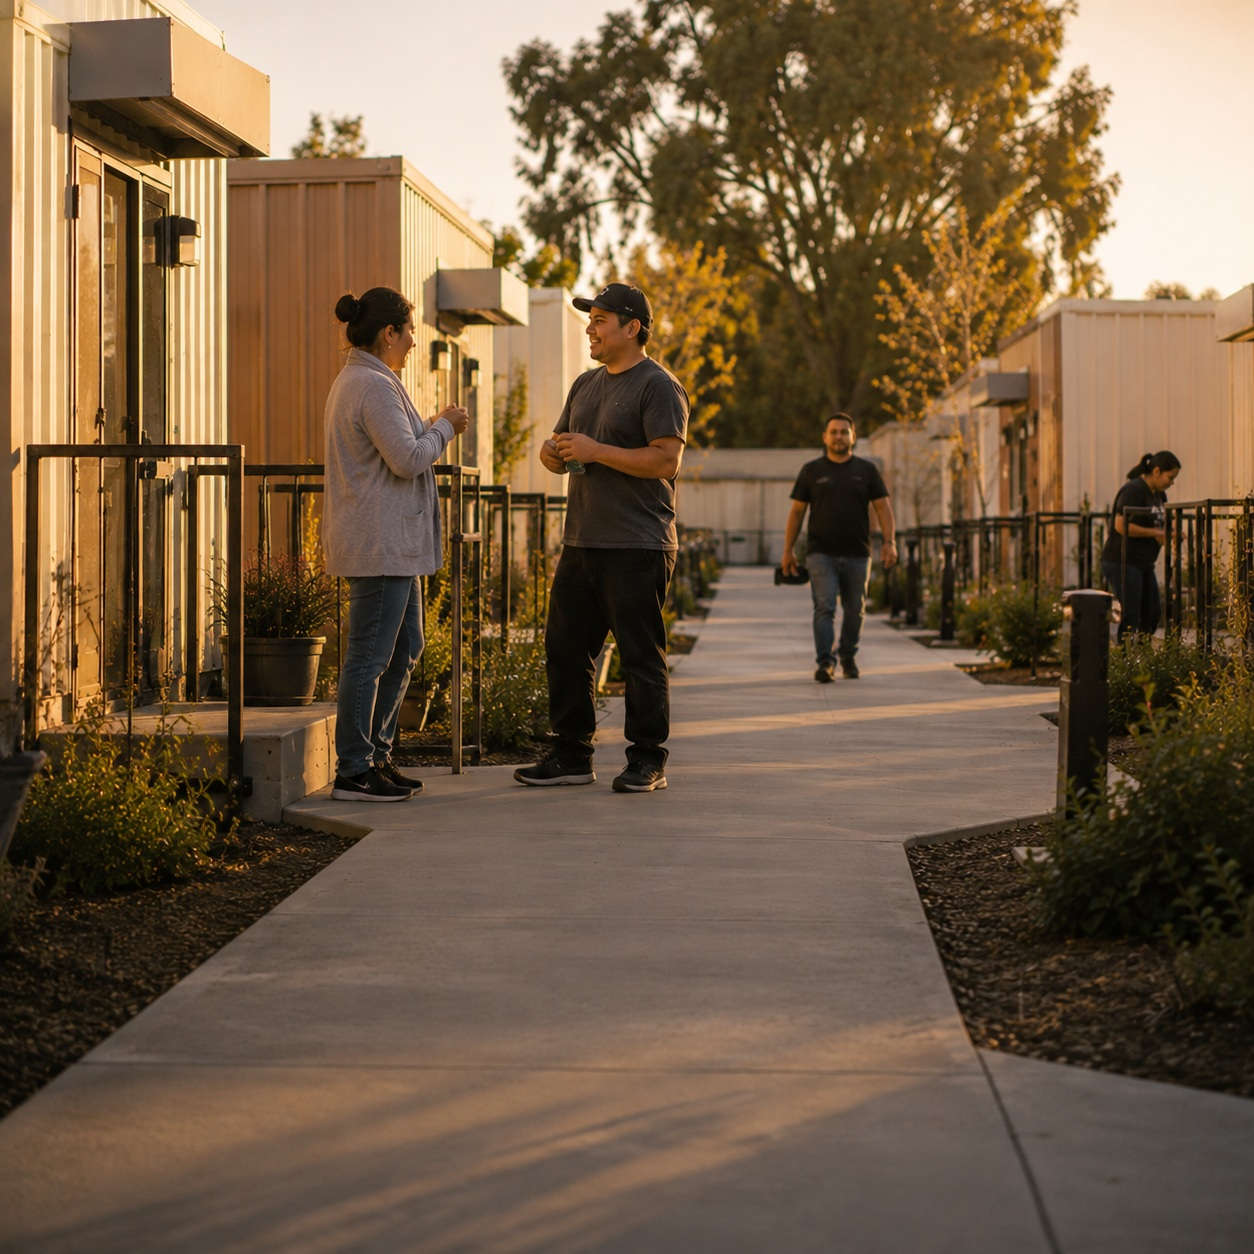
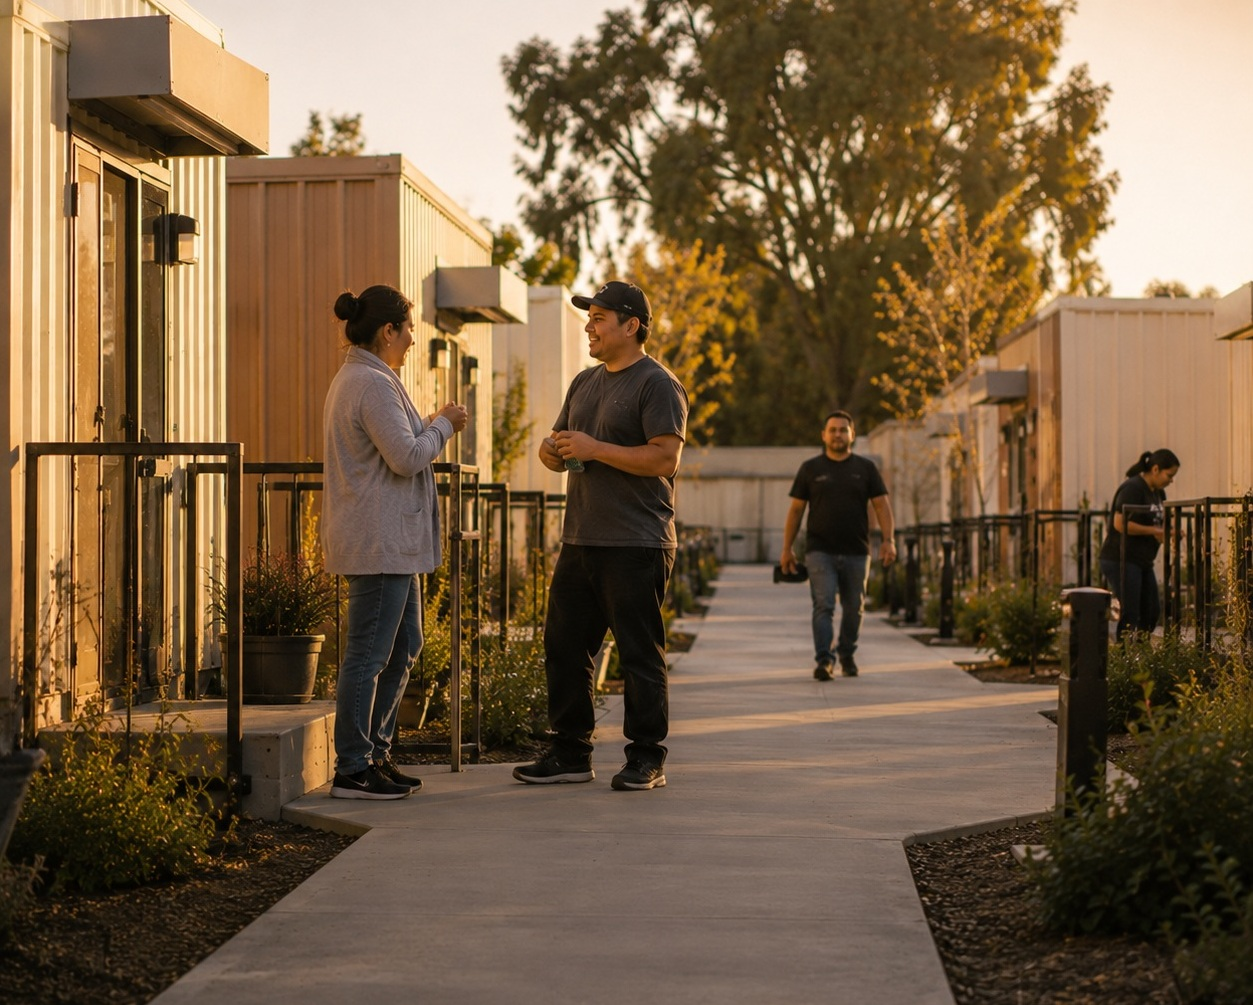
Improve homepage Signs of Being cards

diff --git a/src/index.css b/src/index.css
@@ -3113,6 +3113,32 @@ p {
   font-size: 0.86rem;
 }
 
+.is-home-page .public-story-band .story-card {
+  background: #202422;
+  min-height: 404px;
+}
+
+.is-home-page .public-story-band .story-card img {
+  height: calc(100% - 184px);
+}
+
+.is-home-page .public-story-band .story-card::after {
+  inset: auto 0 0;
+  height: 184px;
+  background: #1d2220;
+}
+
+.is-home-page .public-story-band .story-card div {
+  top: calc(100% - 184px);
+  right: 0;
+  bottom: 0;
+  left: 0;
+  display: grid;
+  align-content: start;
+  background: #1d2220;
+  padding: 14px 18px 24px;
+}
+
 .story-detail-page {
   background: #fffdf9;
 }
